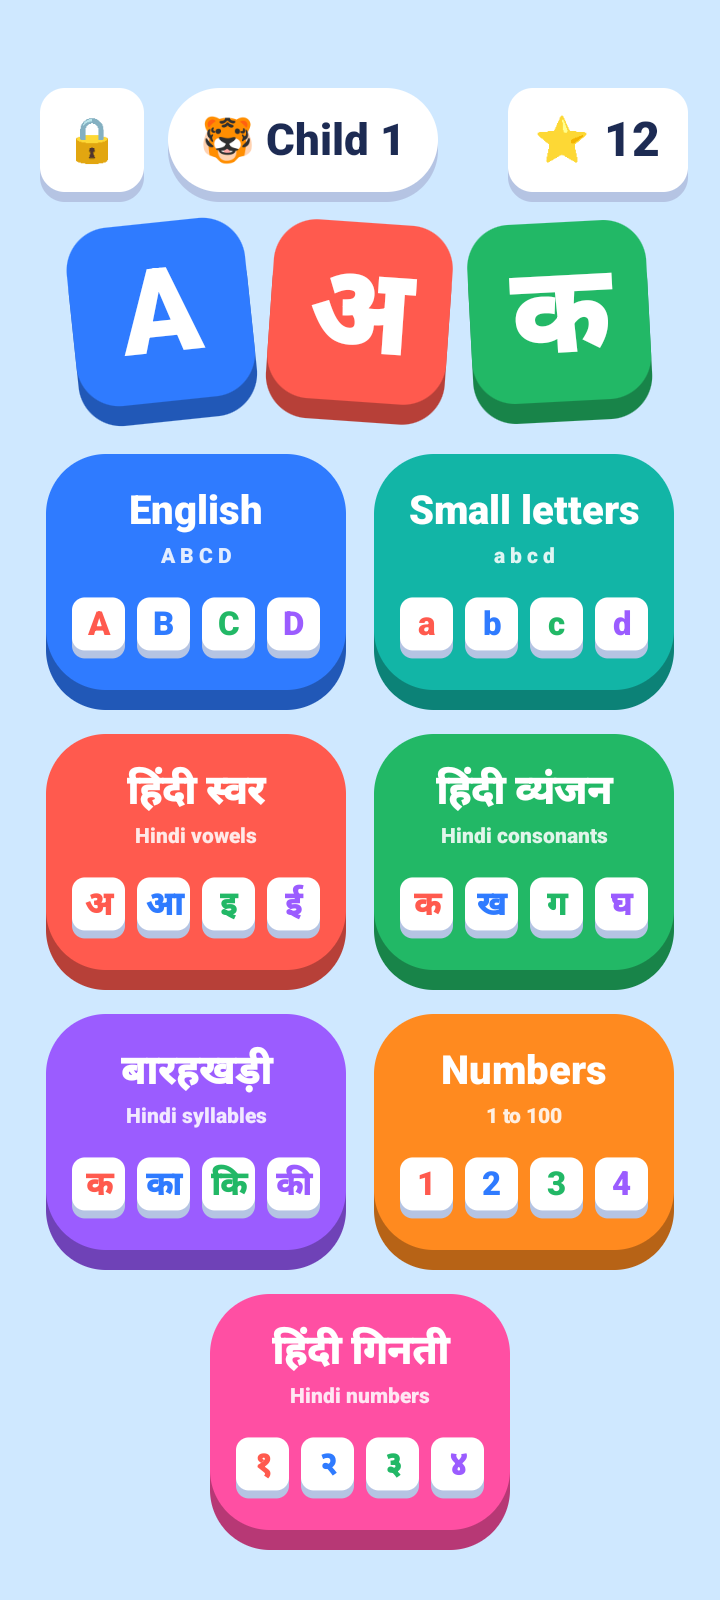
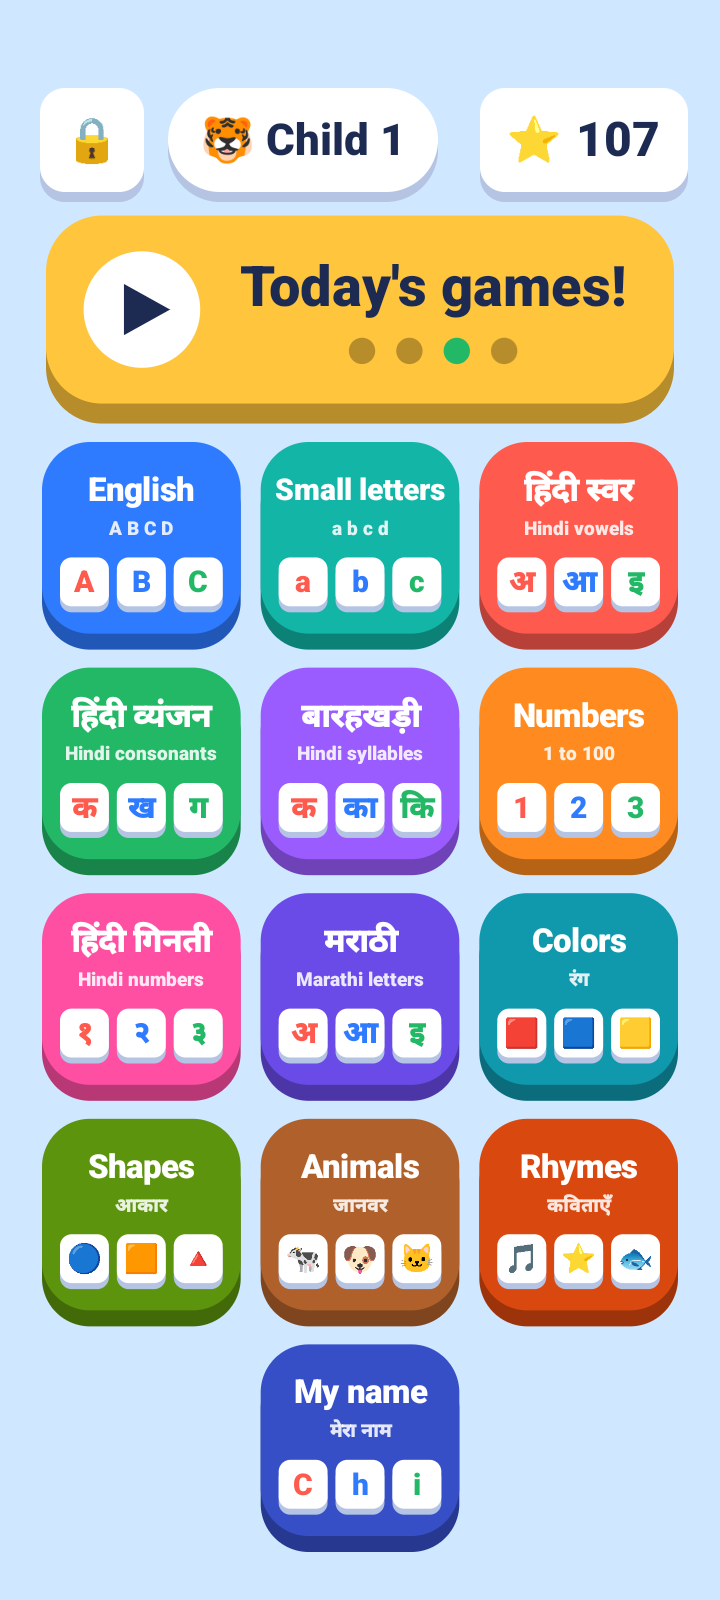
README: the new sections (Marathi, colors, shapes, animals, rhymes, my name), certificates and music

diff --git a/README.md b/README.md
@@ -13,24 +13,26 @@
   <img src="https://img.shields.io/badge/Android-24%2B-3DDC84?logo=android&logoColor=white" alt="Android 7.0+">
   <img src="https://img.shields.io/badge/offline-100%25-2E7BFF" alt="Works offline">
   <a href="https://github.com/abhishekjahazi/akshar-blocks/actions/workflows/tests.yml"><img src="https://github.com/abhishekjahazi/akshar-blocks/actions/workflows/tests.yml/badge.svg" alt="Tests"></a>
-  <img src="https://img.shields.io/badge/unit%20tests-81-22B35E" alt="81 unit tests">
+  <img src="https://img.shields.io/badge/unit%20tests-94-22B35E" alt="94 unit tests">
 </p>
 
 ---
 
 ## Screenshots
 
-| Home: 7 learning tracks | Game modes for a track | Tracing with stroke order |
+| Home: 13 sections | Game modes for a track | Tracing with stroke order |
 |:---:|:---:|:---:|
 | <img src="docs/screenshots/1-home.png" alt="Home screen with seven learning tracks" width="230"> | <img src="docs/screenshots/2-games.png" alt="English track with its game modes" width="230"> | <img src="docs/screenshots/3-trace.png" alt="Tracing the letter A with numbered strokes" width="230"> |
 | **First words: build s-u-n** | **Memory: find the pairs** | **बारहखड़ी: add the vowel sign** |
 | <img src="docs/screenshots/4-words.png" alt="Building the word sun from letter blocks" width="230"> | <img src="docs/screenshots/5-memory.png" alt="Memory game with two cards turned over" width="230"> | <img src="docs/screenshots/6-barakhadi.png" alt="Barakhadi game: ष plus which vowel sign makes षू" width="230"> |
 | **Today's games: a daily path** | **Report card for parents** | **Daily play-time limit** |
 | <img src="docs/screenshots/7-todays-games.png" alt="Today's games: four steps, one ticked" width="230"> | <img src="docs/screenshots/8-report-card.png" alt="Report card with weekly play chart and letter map" width="230"> | <img src="docs/screenshots/9-rest.png" alt="Time to rest screen with a moon" width="230"> |
+| **Animals in English and Hindi** | **Rhymes, line by line** | **Write my own name** |
+| <img src="docs/screenshots/10-animals.png" alt="Animals: a cow, Cow, गाय" width="230"> | <img src="docs/screenshots/11-rhyme.png" alt="Twinkle Twinkle with the current line lit up" width="230"> | <img src="docs/screenshots/12-my-name.png" alt="Tracing the child's name letter by letter" width="230"> |
 
 ## Features
 
-**Seven learning tracks**
+**Eleven learning tracks**
 
 | Track | What the child learns |
 |---|---|
@@ -41,21 +43,32 @@
 | बारहखड़ी (Barakhadi) | Consonant + vowel sign (क का कि की …) |
 | Numbers | 1–100, with counting games |
 | गिनती (Ginti) | Hindi numerals १–१०० |
+| मराठी (Marathi) | 49 Marathi letters with Marathi words (अ – अननस), in a Marathi voice |
+| Colors | 9 colors, named in English and Hindi (Red – लाल) |
+| Shapes | 7 shapes (Circle – गोला, Triangle – त्रिकोण…) |
+| Animals | 18 animals and the sounds they make (Cow – गाय – "moo") |
 
-**Nine game modes**: Learn, Trace (follow the strokes with a finger), Find it, Balloon pop, Match the picture, Memory pairs, First words (build c-a-t or ज-ल from letter blocks), Count, and Build a syllable (बारहखड़ी).
+**Ten game modes**: Learn, Trace (follow the strokes with a finger), Find it, Balloon pop, Match the picture, Memory pairs, First words (build c-a-t, ज-ल, or with matras कि-ता-ब), Count, Build a syllable (बारहखड़ी), and Sounds ("Who says moo?").
 
-**Voice in English and Hindi.** Every instruction and letter name is spoken. 1,100+ pre-recorded clips ship with the app, and text-to-speech covers anything else, so it works with no internet.
+**Voice in English, Hindi and Marathi.** Every instruction and letter name is spoken. 1,400+ pre-recorded clips ship with the app, and text-to-speech covers anything else, so it works with no internet.
 
 **Today's games.** One big button on Home starts a short daily path of four games picked from the child's progress: Learn while letters are new, then Trace, plus a practice game that changes every day. English, Hindi and numbers take turns, and the next section opens once the first is half learned.
 
 **Learns with the child.** Adaptive practice brings back letters a child gets wrong, and tracks which letters get mixed up (b ↔ d, ब ↔ व).
 
-**Rewards.** Stars, a sticker album (a new sticker every 5 stars) and a daily streak.
+**Rewards.** Stars, a sticker album (a new sticker every 5 stars) and a daily streak. Learning most of a section earns a **certificate** with the child's name, which parents can share.
+
+**Rhymes.** 12 rhymes: traditional English, Hindi and Marathi ones and two written for the app, read line by line with the current line lit up.
+
+**My name.** Children trace their own name, letter by letter (A a r a v, or रि या).
+
+**Soft background music**, a music-box tune made in code that gets quieter whenever the voice speaks.
 
 **Parent area**, behind a typed maths question so children can't open it:
 - Up to 4 child profiles, each with their own progress.
 - A daily play-time limit (15–60 minutes), with a friendly "time to rest" screen.
 - A **report card** for each child: level per track, a colour-coded letter map, a weekly play-time chart, letters that need practice, and a Share button.
+- Certificates to share, and switches for game sounds and music.
 
 **Private by design.** No ads, no accounts, no internet permission, no analytics. All progress stays on the device and backups are turned off. The app follows Google Play's Families policy.
 
@@ -68,10 +81,10 @@
 | Language | Kotlin |
 | Platform | Android SDK (min API 24, target API 37), Android Gradle Plugin 9 |
 | UI | Custom `Canvas` game engine (`GameView`) with animation, plus Material Components for the parent area |
-| Audio | `MediaPlayer` for bundled voice clips, Android `TextToSpeech` as fallback, `AudioTrack` for sound effects generated in code |
+| Audio | `MediaPlayer` for bundled voice clips, Android `TextToSpeech` as fallback, `AudioTrack` for sound effects and background music generated in code |
 | Content | Plain TSV files for letters, tracing strokes and words, so new content needs no code changes |
 | Art | [Noto Emoji](https://github.com/googlefonts/noto-emoji) images (Apache 2.0), bundled for consistent look on every device |
-| Testing | JUnit: 81 unit tests covering content, tracing, rewards, reports, the daily path, play-time limits and voice clips |
+| Testing | JUnit: 94 unit tests covering content, tracing, rewards, reports, the daily path, rhymes, names, certificates, music, play-time limits and voice clips |
 | Tools | Android Studio, Gradle, Claude Code (AI-assisted development) |
 
 ## Project structure
